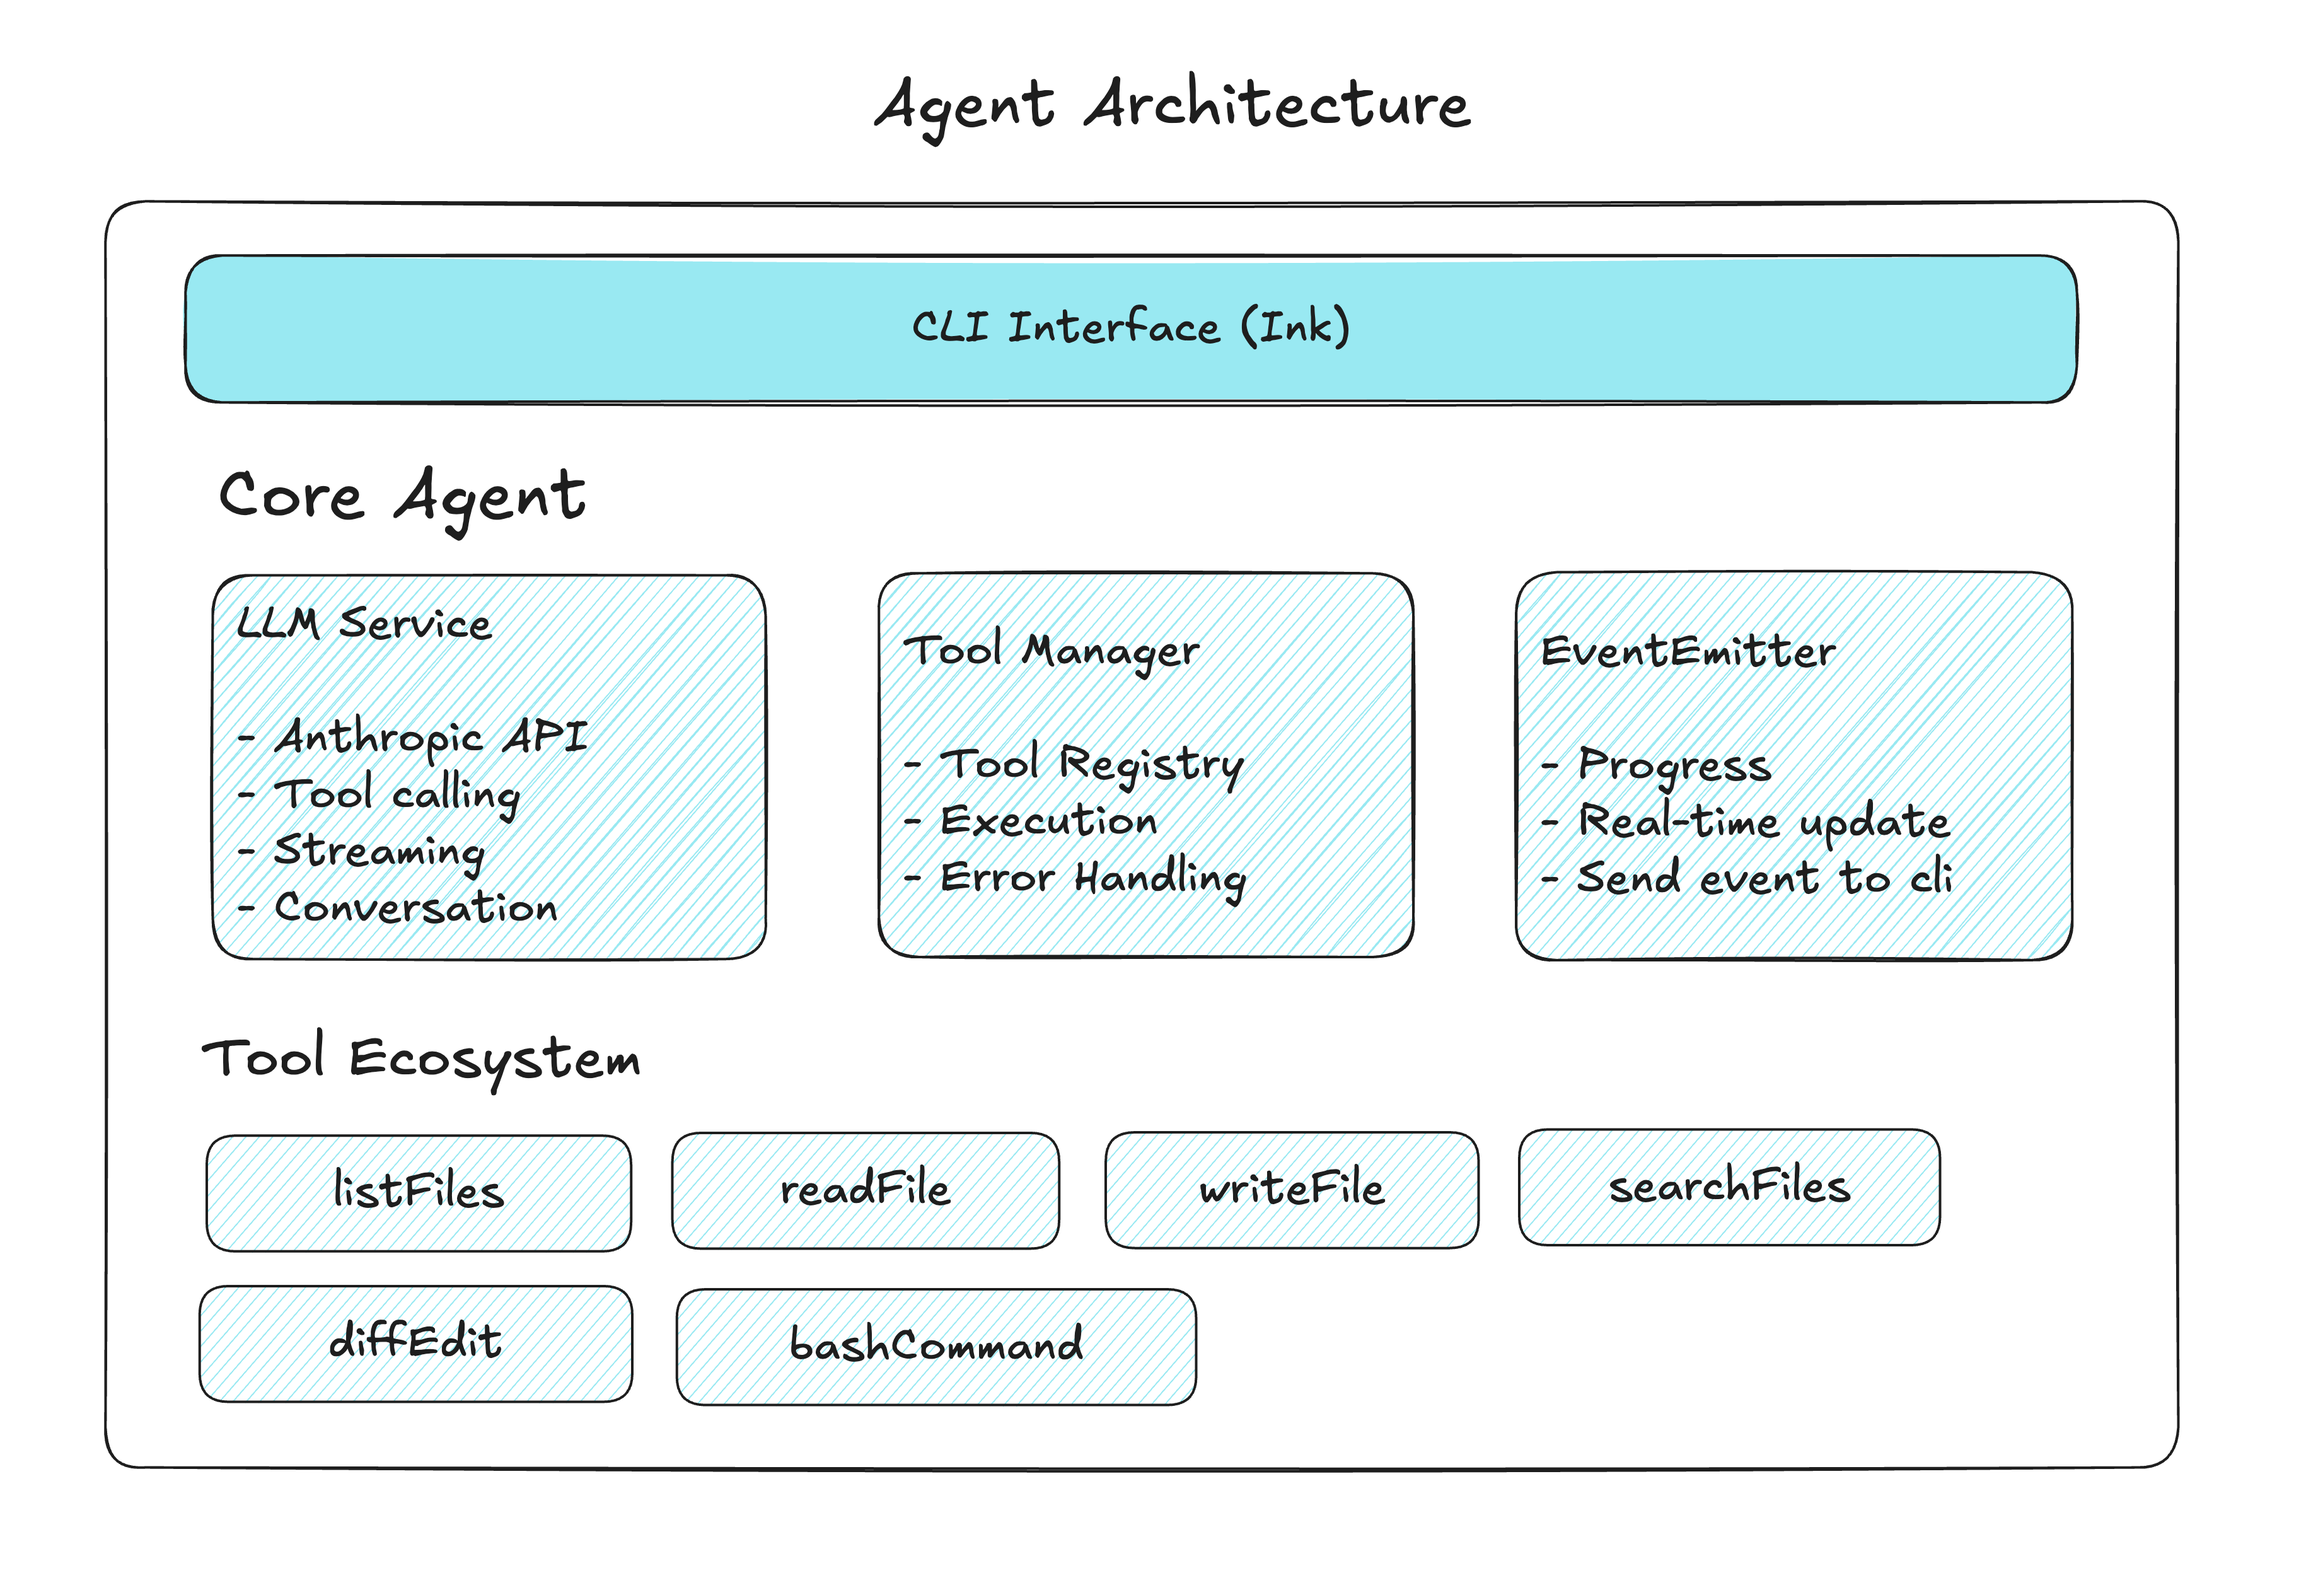
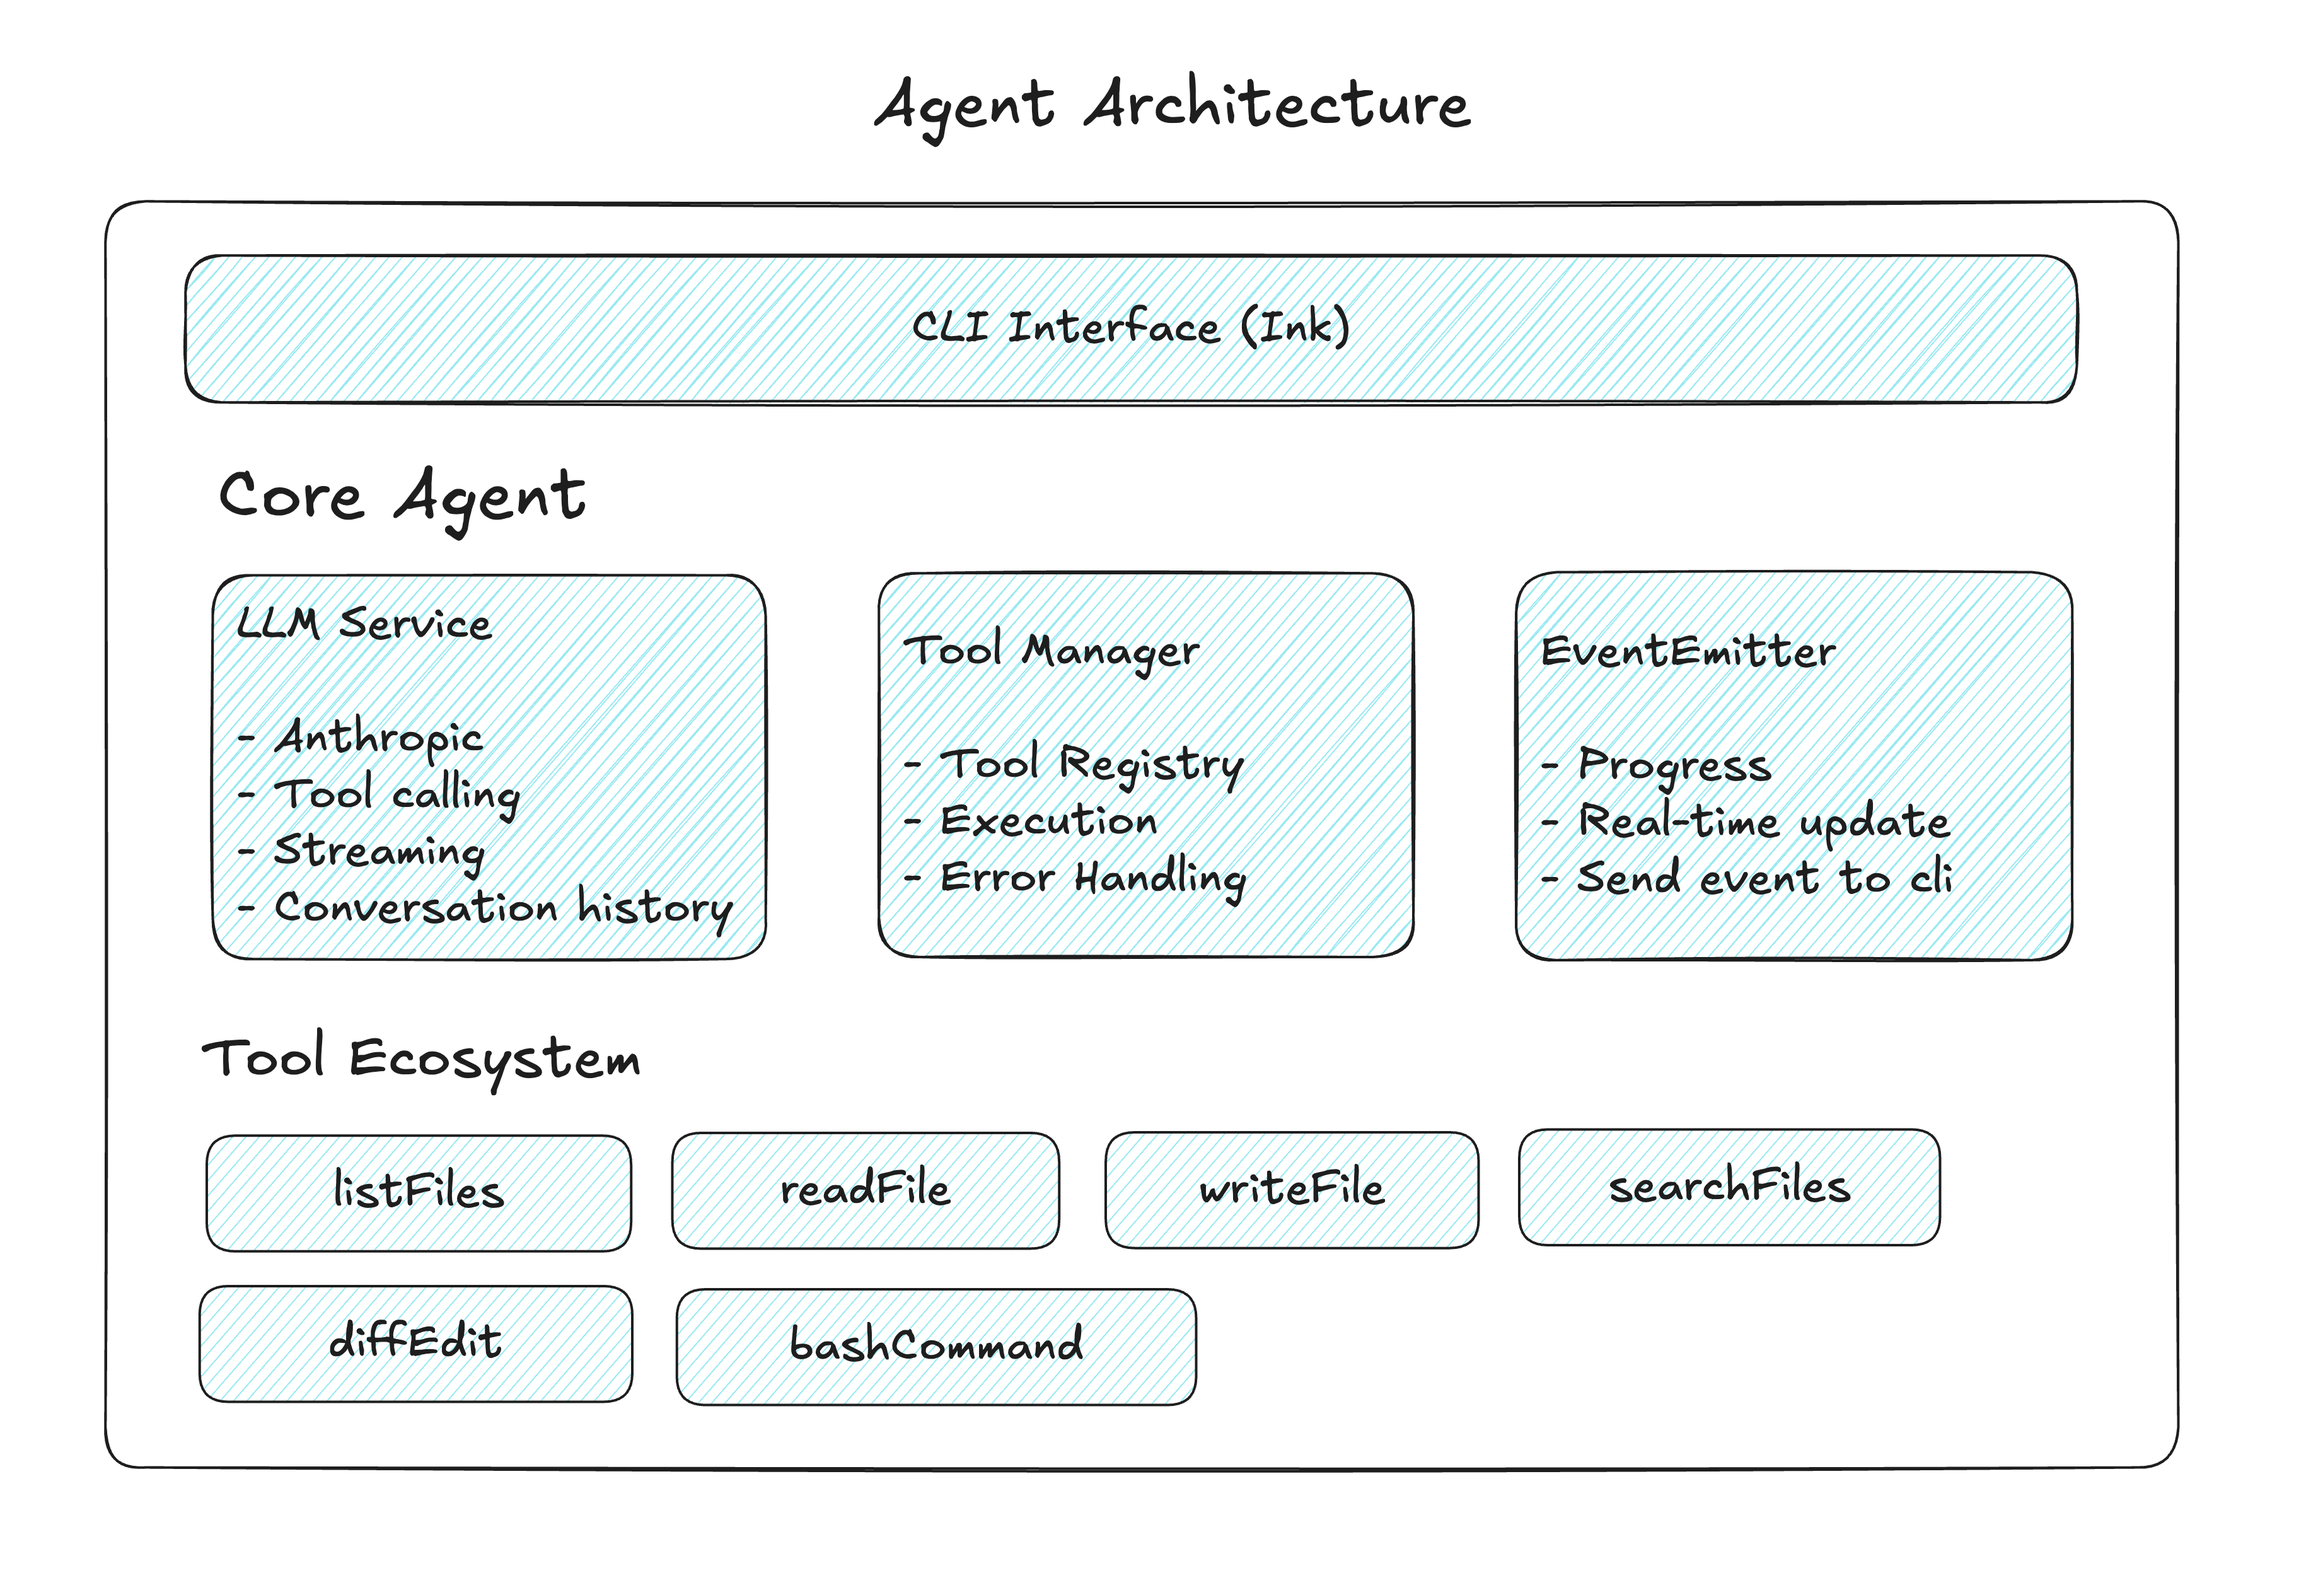
Refactor CoreAgent and system prompt
- Remove redundant conversation history management
- Improve error logging in CoreAgent
- Update system prompt with payload validation requirements

Changed region(s): [[0.0623, 0.1543, 0.9038, 0.2778], [0.2493, 0.5555, 0.3116, 0.5864], [0.2182, 0.4629, 0.2493, 0.4938]]

diff --git a/agent/core/CoreAgent.ts b/agent/core/CoreAgent.ts
@@ -29,12 +29,6 @@ export class CoreAgent extends EventEmitter {
     this.currentAbortController = new AbortController();
 
     try {
-      // Add user query to conversation history immediately to preserve context even if processing fails
-      const userMessage: Anthropic.Messages.MessageParam = {
-        role: 'user',
-        content: query
-      };
-      
       // Emit thinking event
       this.emitProgress({
         type: 'thinking',
@@ -118,11 +112,6 @@ export class CoreAgent extends EventEmitter {
       // Validate the conversation history to ensure proper tool_use/tool_result pairing
       this.conversationHistory = this.validateConversationHistory(result.conversationHistory);
 
-      // Keep conversation history manageable (limit to last 10 exchanges = 20 messages)
-      if (this.conversationHistory.length > 20) {
-        this.conversationHistory = this.conversationHistory.slice(-20);
-      }
-
       this.emitProgress({
         type: 'complete',
         message: 'Query processed successfully',
@@ -146,10 +135,6 @@ export class CoreAgent extends EventEmitter {
         }
       );
 
-      // Keep conversation history manageable
-      if (this.conversationHistory.length > 20) {
-        this.conversationHistory = this.conversationHistory.slice(-20);
-      }
       // Handle abort signal
       if (error instanceof Error && error.name === 'AbortError') {
         this.emitProgress({
@@ -161,6 +146,13 @@ export class CoreAgent extends EventEmitter {
         // Re-throw the original error to preserve the message
         throw error;
       }
+
+      // Log the error with context
+      logger.error('CoreAgent', 'Failed to process query', { 
+        query, 
+        error: error instanceof Error ? error.message : 'Unknown error',
+        stack: error instanceof Error ? error.stack : undefined
+      });
 
       this.emitProgress({
         type: 'error',

diff --git a/agent/prompts/systemPrompt.ts b/agent/prompts/systemPrompt.ts
@@ -97,10 +97,15 @@ After context discovery, determine implementation scope based on:
    - Create POST route to add new records
    - Add UPDATE and DELETE routes if relevant
    - Implement proper error handling and validation
-   - **CRITICAL**: Always validate foreign key references before inserting data
+   - **IMPORTANT**: Always validate foreign key references before inserting data
      • When inserting records with ID references, verify referenced records exist
      • Return appropriate error responses for invalid references
      • Use database queries to check existence before insertion
+   - **REQUIRED: Payload Validation**
+     • Zod Validation: Always validate API request/response payloads with Zod schemas
+     • Shared Types: Export TypeScript types from schemas for frontend use
+     • Error Responses: Return structured validation errors with 400 status
+     • Test Integration: Verify frontend handles both success and validation error responses
 
 4. **Integration Ready** (if missing):
    - Export database functions for use in components
